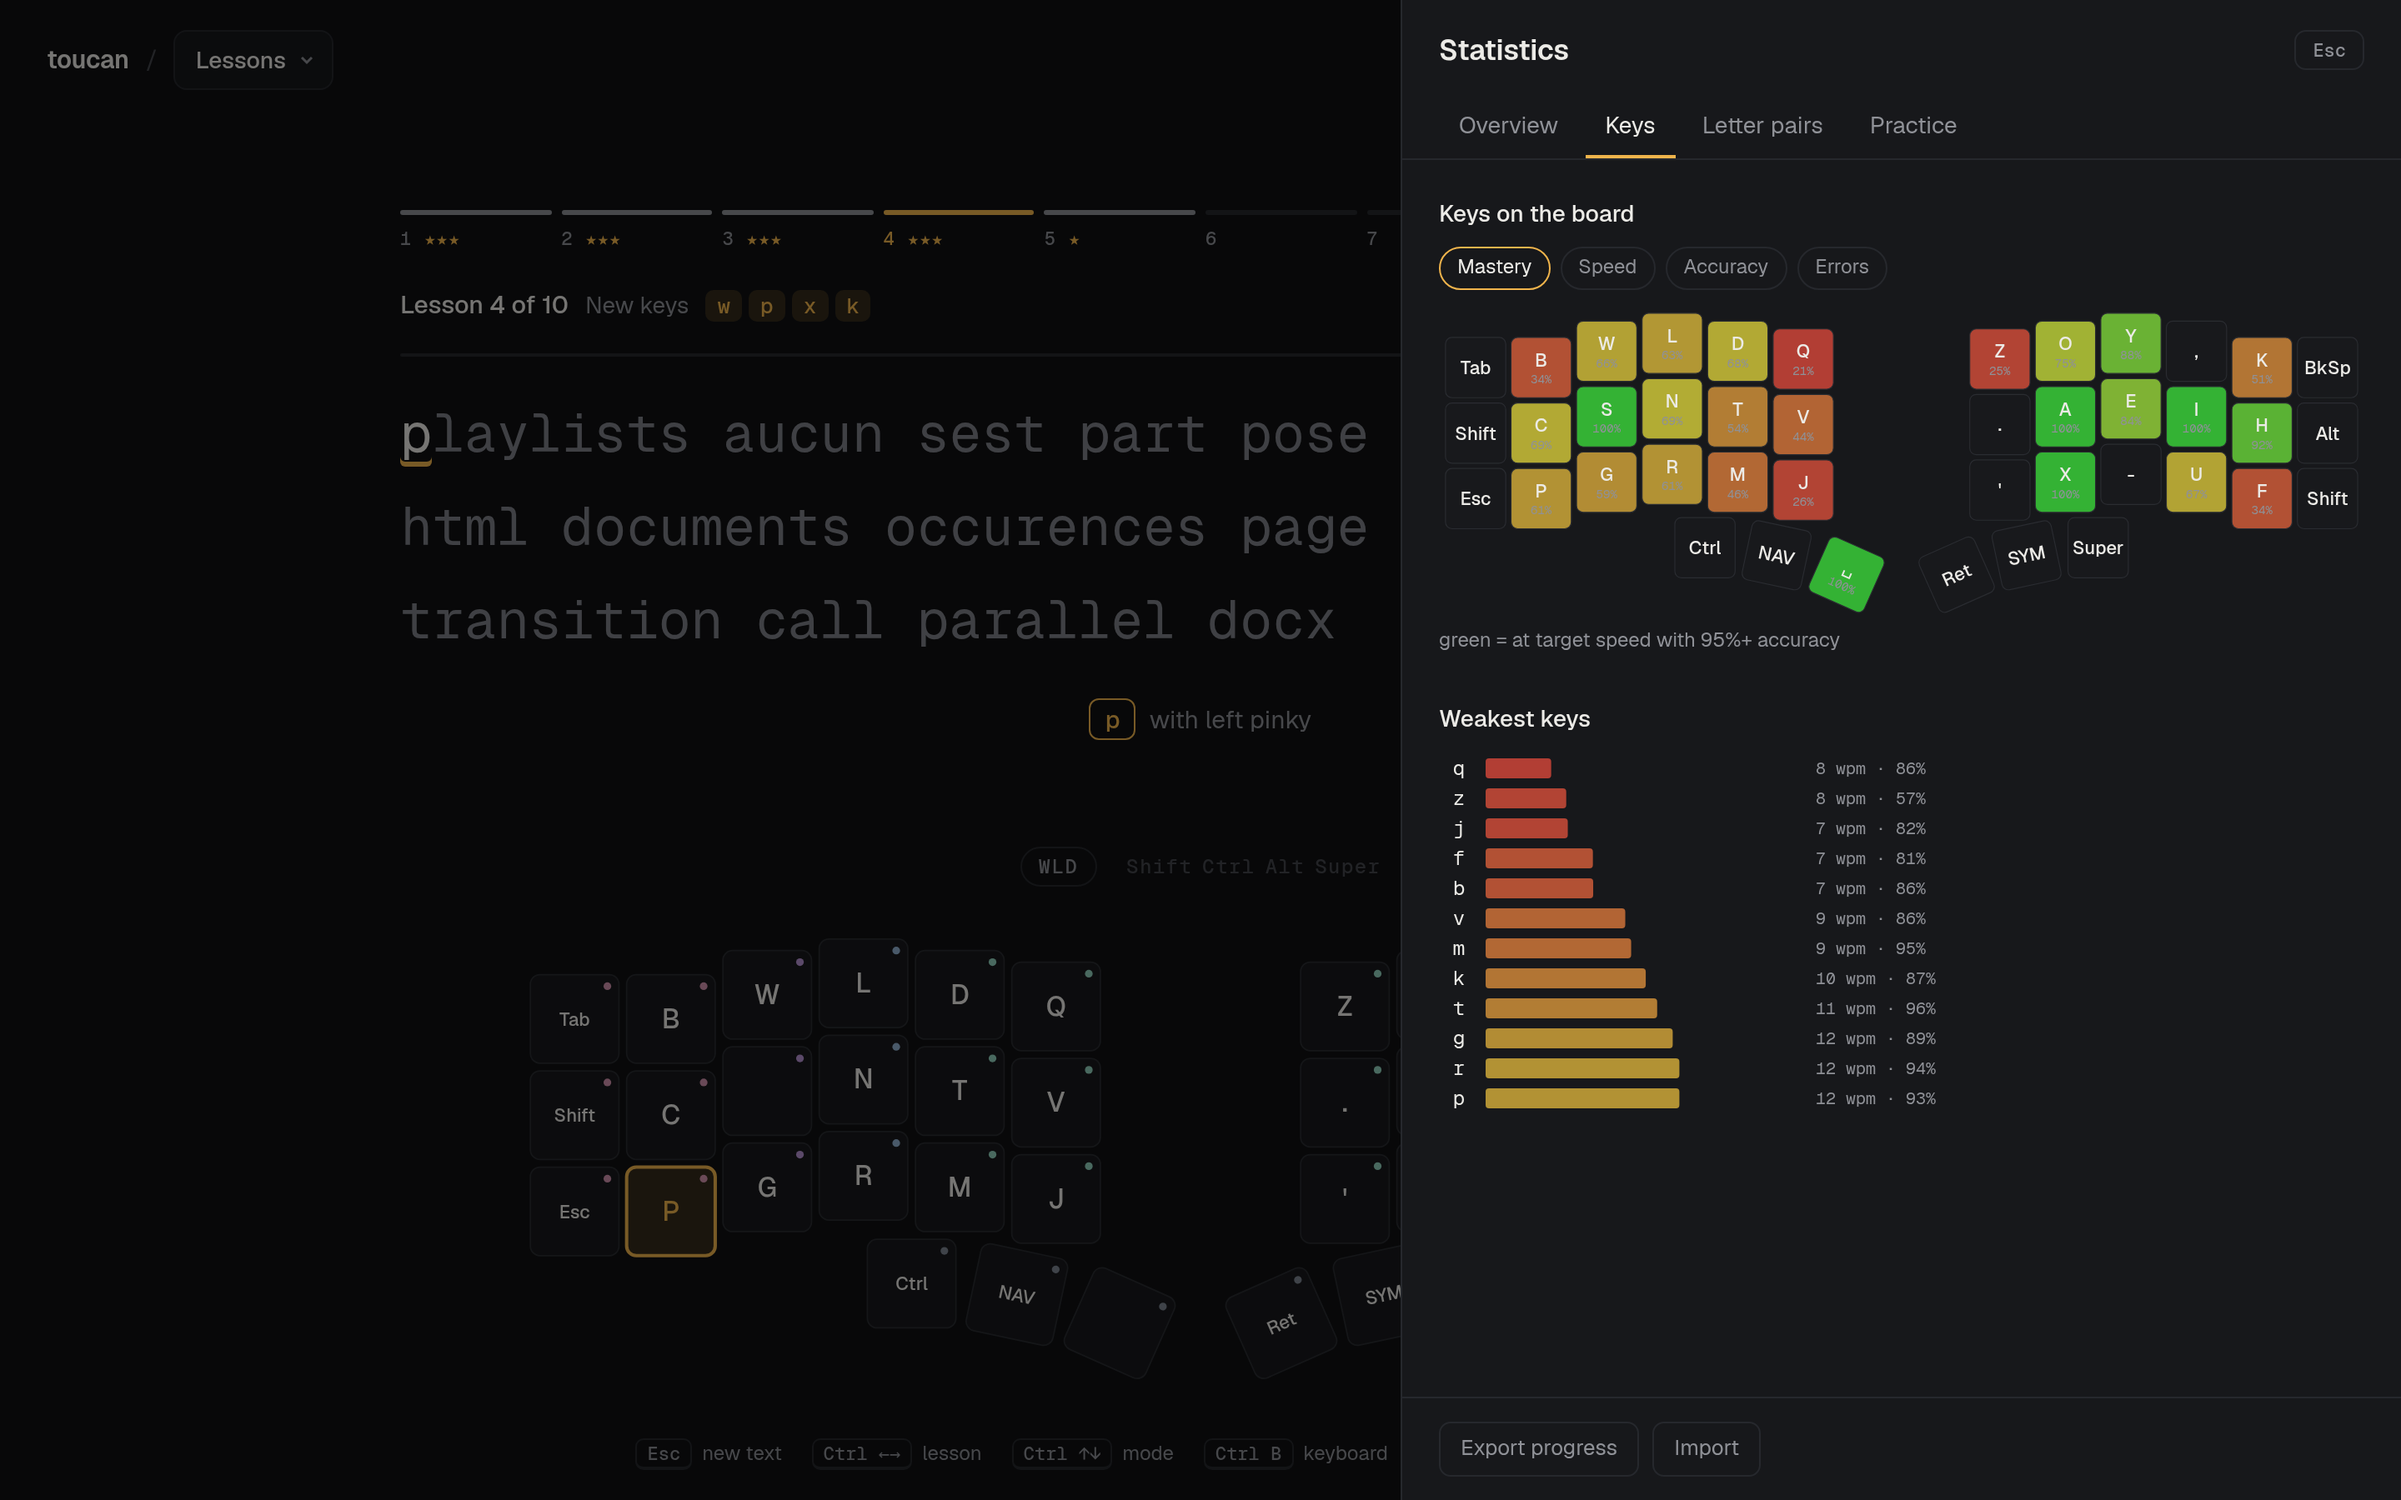
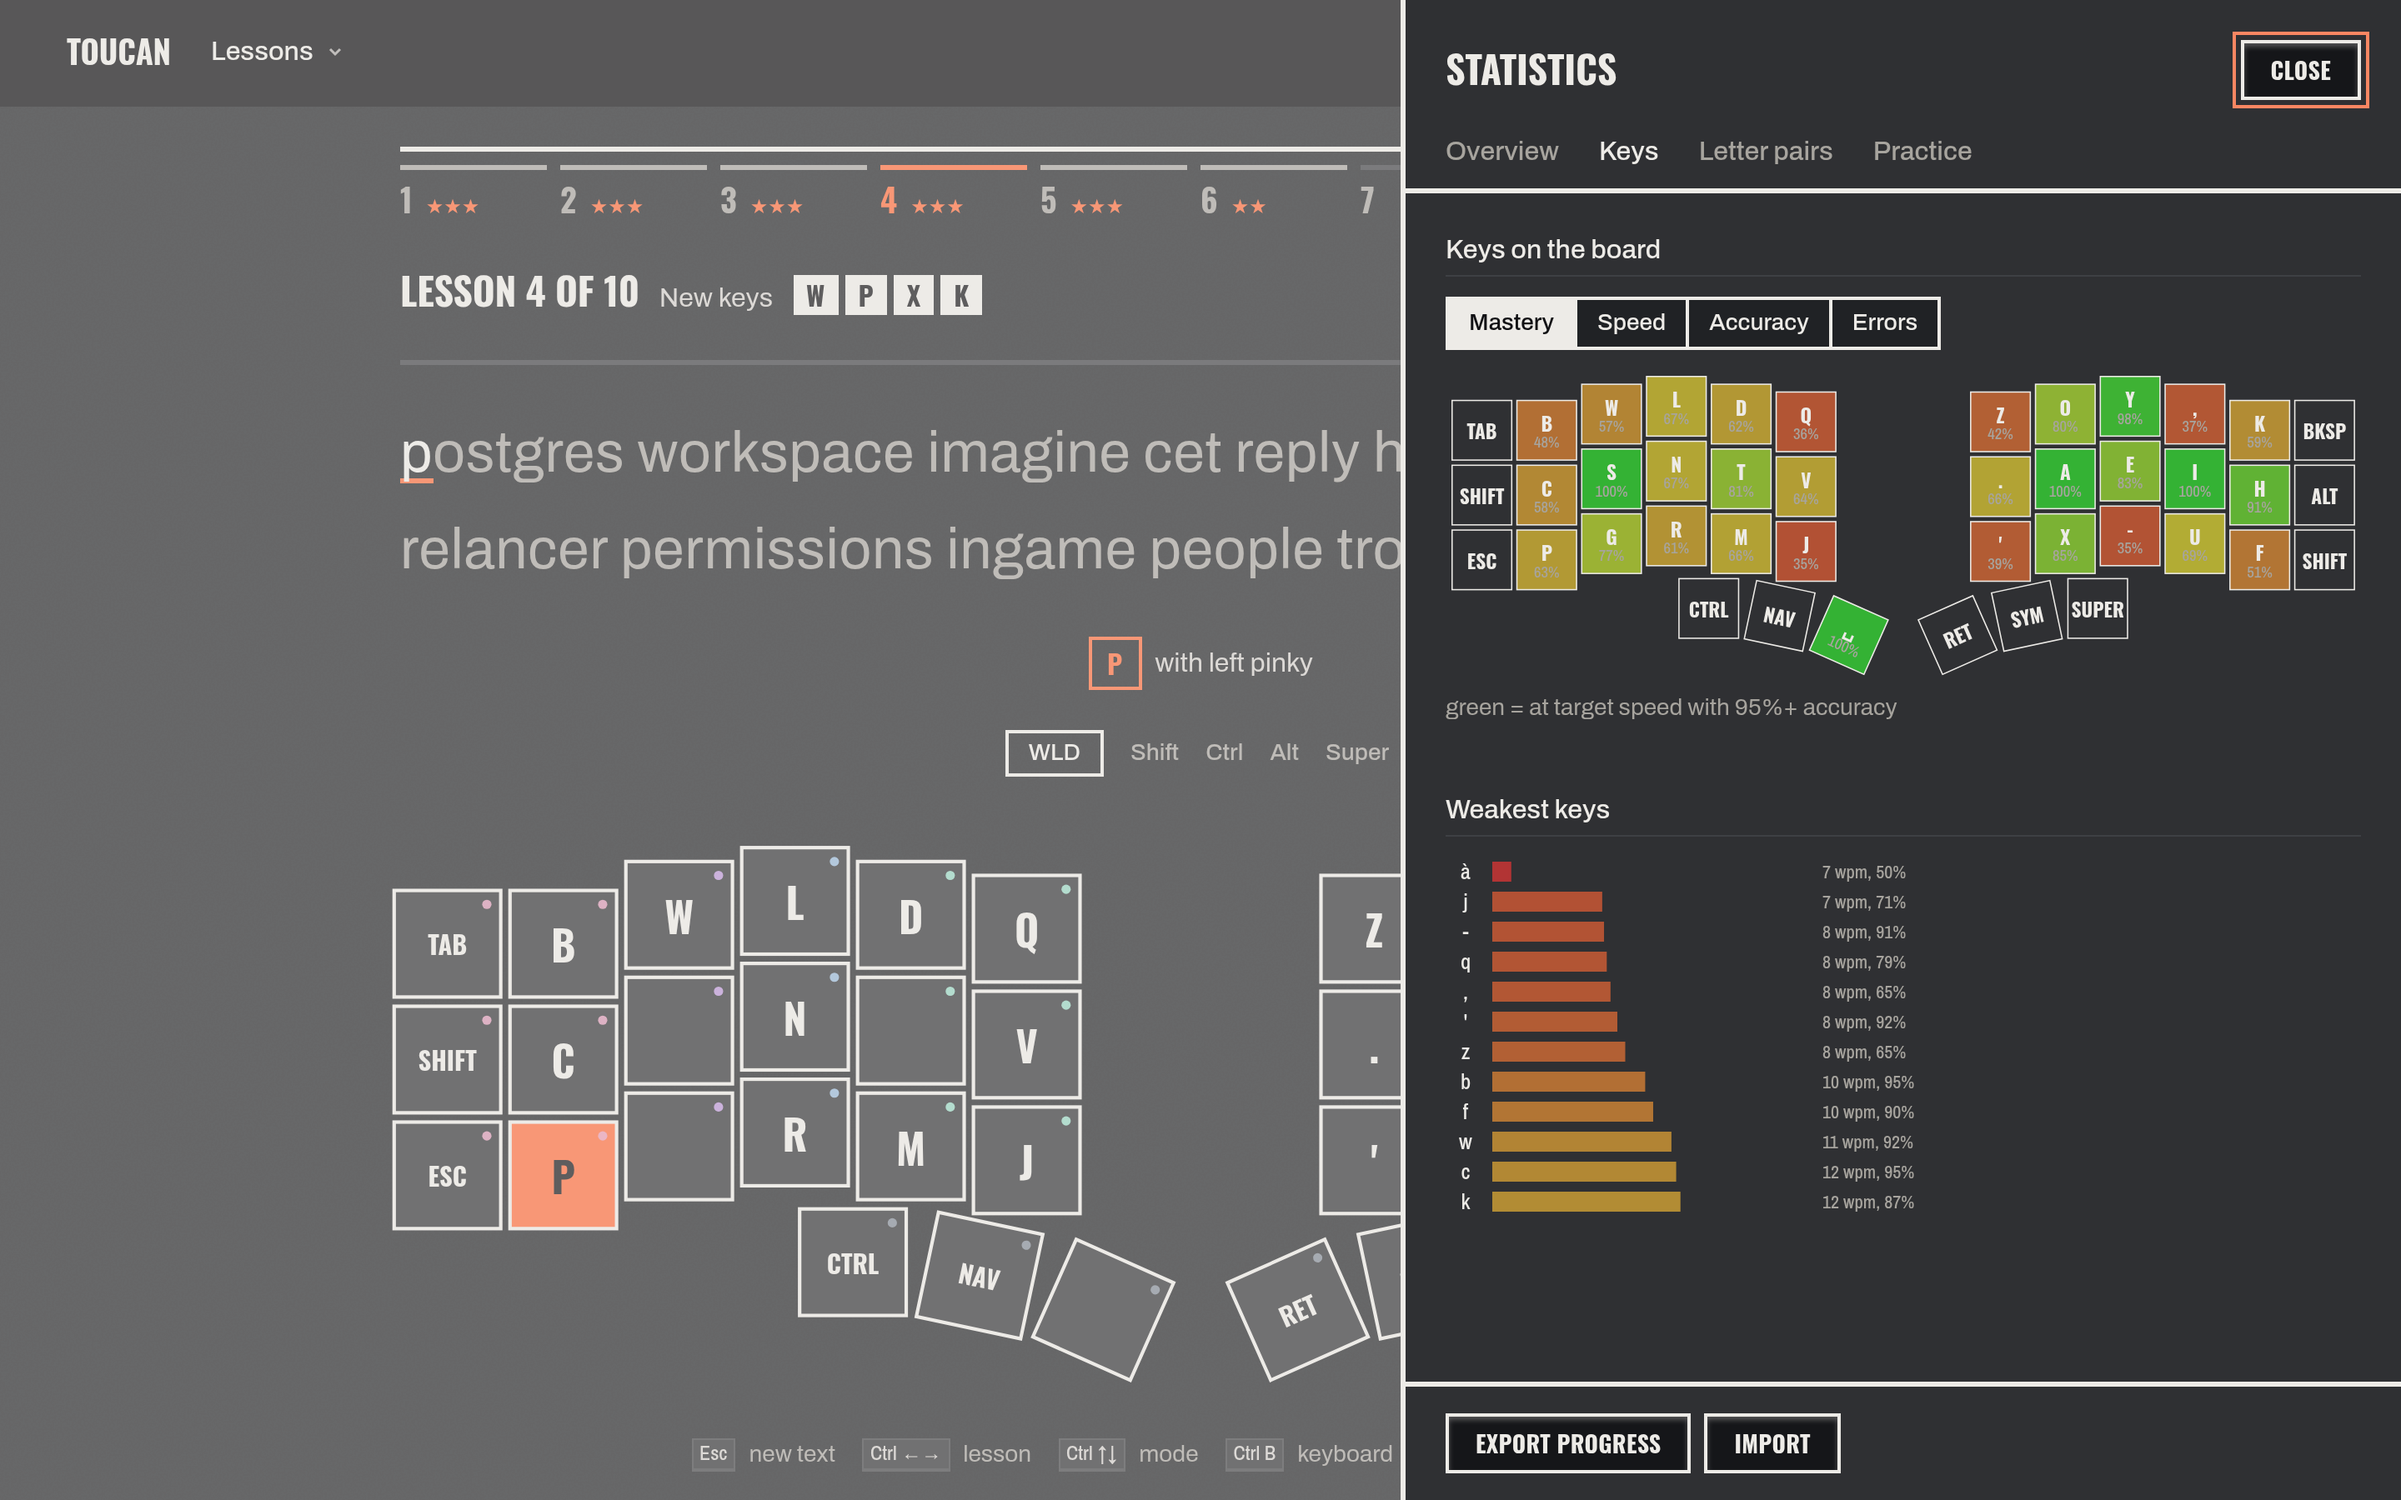
site: the Stats captures retaken on the redesigned trainer with the author's progress of 30 October (157 texts, 3 h 5 m, best 30 wpm), the numbers and the date updated to match

diff --git a/site/index.html b/site/index.html
@@ -265,7 +265,7 @@
         <img src="images/screens/settings-desktop.png" width="2880" height="1800" alt="The trainer settings: keyboard hints, target speed slider, sync between devices, live feed" loading="lazy">
       </figure>
       <figure class="shot shot--desktop" data-slot="trainer-4" data-kind="product" data-alt="The trainer statistics, overview" data-pin="4">
-        <img src="images/screens/stats-overview-desktop.png" width="2880" height="1800" alt="The trainer statistics on 29 October: 131 texts, 2 h 32 m practised, 15 wpm over the last ten texts, best 30, 4 of 26 keys at target, speed text by text, stars per lesson" loading="lazy">
+        <img src="images/screens/stats-overview-desktop.png" width="2880" height="1800" alt="The trainer statistics on 30 October: 157 texts, 3 h 5 m practised, 18 wpm over the last ten texts, best 30, 3 of 31 keys at target, speed text by text, stars per lesson" loading="lazy">
       </figure>
     </div>
     <div class="pinned__panels">
@@ -273,7 +273,7 @@
       <article class="panel" data-for="1"><h3>Speed times accuracy opens the next lesson</h3><p>Every key gets a score: how close your speed and accuracy on it are to the target. The next lesson opens once all the new keys are green.</p></article>
       <article class="panel" data-for="2"><h3>Chunks and weak pairs</h3><p>Common letter groups (tion, ment, ing) and the pairs you type slowly come back more often, until they stop being slow.</p></article>
       <article class="panel" data-for="3"><h3>The board mirrors the USB key presses</h3><p>Plugged in by USB, the keyboard reports each real press and the board lights the key you hit. Your progress follows you between machines with a secret code, no account.</p></article>
-      <article class="panel" data-for="4"><h3>My own numbers, eleven days in</h3><p>131 texts, 2 h 32 m, 30 wpm at best, 4 keys of 26 at target. Each dot a text, the line the last ten.</p></article>
+      <article class="panel" data-for="4"><h3>My own numbers, twelve days in</h3><p>157 texts, 3 h 5 m, 30 wpm at best, 3 keys of 31 at target. Each dot a text, the line the last ten.</p></article>
     </div>
   </div>
 </section>
@@ -293,7 +293,7 @@
 </main>
 <footer class="letter">
   <div class="container">
-    <p class="sign">Typed on the Toucan2, in Walid, between <time datetime="2026-10-18">18</time> and <time datetime="2026-10-29">29 October 2026</time>.</p>
+    <p class="sign">Typed on the Toucan2, in Walid, between <time datetime="2026-10-18">18</time> and <time datetime="2026-10-30">30 October 2026</time>.</p>
     <p class="sign sign--name">waliori</p>
     <nav aria-label="Links"><a href="https://github.com/waliori/toucan2">The repository</a><a href="https://github.com/waliori/toucan2/blob/main/KEYMAP.md">The keymap, as text</a><a href="/trainer/">The trainer</a></nav>
   </div>

diff --git a/site/index.tmpl.html b/site/index.tmpl.html
@@ -244,7 +244,7 @@
         <img src="images/screens/settings-desktop.png" width="2880" height="1800" alt="The trainer settings: keyboard hints, target speed slider, sync between devices, live feed" loading="lazy">
       </figure>
       <figure class="shot shot--desktop" data-slot="trainer-4" data-kind="product" data-alt="The trainer statistics, overview" data-pin="4">
-        <img src="images/screens/stats-overview-desktop.png" width="2880" height="1800" alt="The trainer statistics on 29 October: 131 texts, 2 h 32 m practised, 15 wpm over the last ten texts, best 30, 4 of 26 keys at target, speed text by text, stars per lesson" loading="lazy">
+        <img src="images/screens/stats-overview-desktop.png" width="2880" height="1800" alt="The trainer statistics on 30 October: 157 texts, 3 h 5 m practised, 18 wpm over the last ten texts, best 30, 3 of 31 keys at target, speed text by text, stars per lesson" loading="lazy">
       </figure>
     </div>
     <div class="pinned__panels">
@@ -252,7 +252,7 @@
       <article class="panel" data-for="1"><h3>Speed times accuracy opens the next lesson</h3><p>Every key gets a score: how close your speed and accuracy on it are to the target. The next lesson opens once all the new keys are green.</p></article>
       <article class="panel" data-for="2"><h3>Chunks and weak pairs</h3><p>Common letter groups (tion, ment, ing) and the pairs you type slowly come back more often, until they stop being slow.</p></article>
       <article class="panel" data-for="3"><h3>The board mirrors the USB key presses</h3><p>Plugged in by USB, the keyboard reports each real press and the board lights the key you hit. Your progress follows you between machines with a secret code, no account.</p></article>
-      <article class="panel" data-for="4"><h3>My own numbers, eleven days in</h3><p>131 texts, 2 h 32 m, 30 wpm at best, 4 keys of 26 at target. Each dot a text, the line the last ten.</p></article>
+      <article class="panel" data-for="4"><h3>My own numbers, twelve days in</h3><p>157 texts, 3 h 5 m, 30 wpm at best, 3 keys of 31 at target. Each dot a text, the line the last ten.</p></article>
     </div>
   </div>
 </section>
@@ -272,7 +272,7 @@
 </main>
 <footer class="letter">
   <div class="container">
-    <p class="sign">Typed on the Toucan2, in Walid, between <time datetime="2026-10-18">18</time> and <time datetime="2026-10-29">29 October 2026</time>.</p>
+    <p class="sign">Typed on the Toucan2, in Walid, between <time datetime="2026-10-18">18</time> and <time datetime="2026-10-30">30 October 2026</time>.</p>
     <p class="sign sign--name">waliori</p>
     <nav aria-label="Links"><a href="https://github.com/waliori/toucan2">The repository</a><a href="https://github.com/waliori/toucan2/blob/main/KEYMAP.md">The keymap, as text</a><a href="/trainer/">The trainer</a></nav>
   </div>

diff --git a/site/README.md b/site/README.md
@@ -13,7 +13,7 @@ Hallmark skill (theme Formwork); local only for now.
 - Deploy: from the repository root, `node dist.mjs && npx wrangler@latest deploy` puts this page at https://toucan.walior.it/ and the trainer at `/trainer/` (one Worker, see `wrangler.toml` there)
 
 - `images/screens/stats-*.png` are the trainer's Statistics drawer with the author's own progress (read from the browser's
-  `toucan.*` localStorage on 2026-10-29, seeded into headless Chrome); the other captures run on a fresh profile.
+  `toucan.*` localStorage on 2026-10-30, seeded into headless Chrome); the other captures run on a fresh profile.
 - `data-anneal-seed5.json` is seed 5 of the final run, rerun with a trace (score, best, temperature every 100 swaps); it
   reproduces the Walid layout and its score exactly. The page draws it as the step 4 chart.
 - Motion: one reveal on scroll (opacity and transform, 16px rise) on the blocks below the hero, and the chart draws
